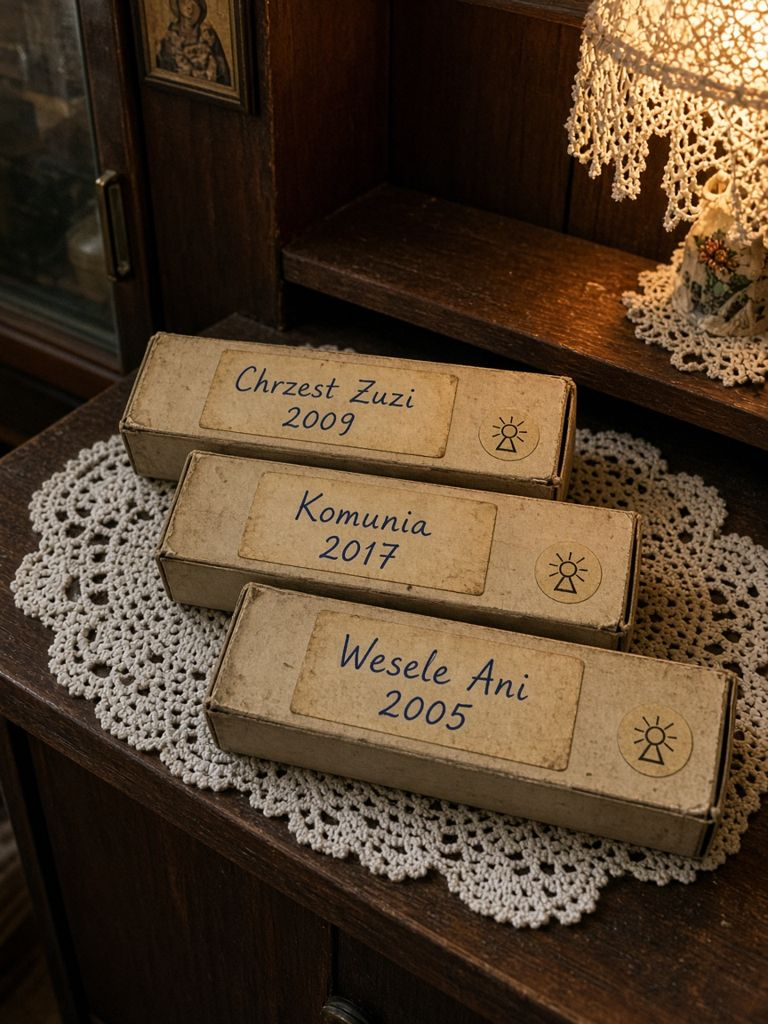
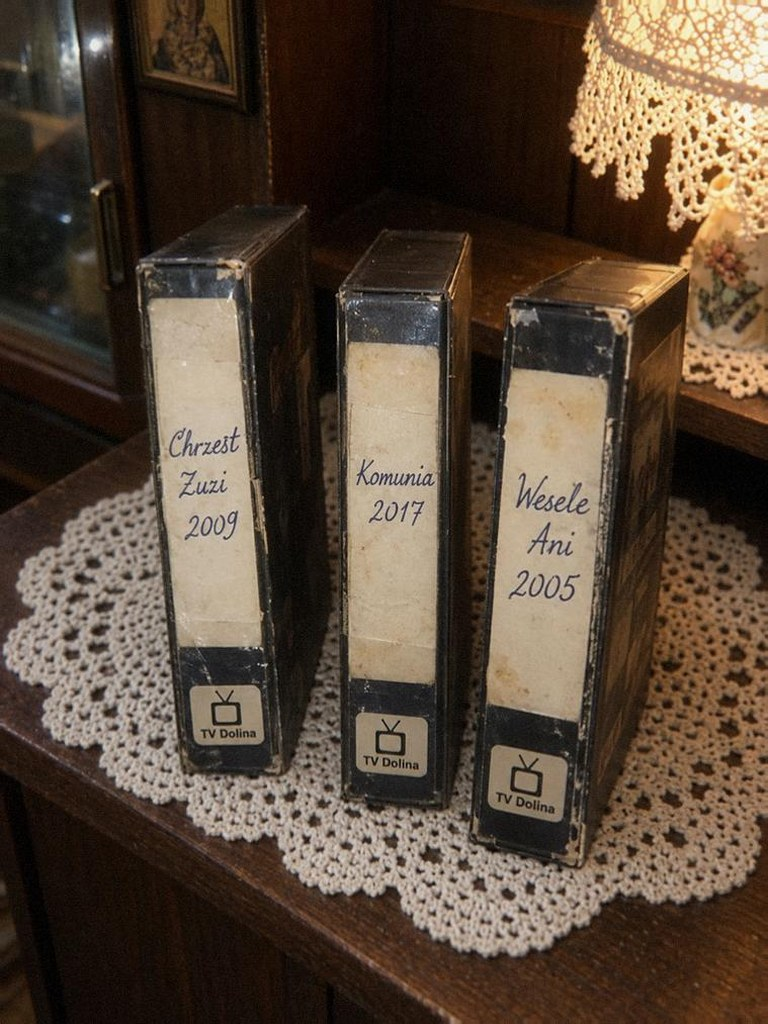
v122: audyt obraz↔tekst we wszystkich sprawach (nocna rampa, kasety TV Dolina, tamagotchi pod murem, mgła na moście, bez gipsu; opisy zgodne ze zdjęciami)

diff --git a/js/data/evidence.js b/js/data/evidence.js
@@ -72,7 +72,7 @@ DATA.evidence = {
   ev_mount: { title: 'Urwany uchwyt fotopułapki 2', cat: 'object', source: 'Zdjęcie Igora', img: 'k_mount', desc: 'Na filarze w hali A zostały tylko opaski zaciskowe i kawałek plastiku. Fotopułapkę ktoś zerwał.' },
   ev_frame08: { title: 'Kadr 8: chłopcy w hucie (1997)', cat: 'photo', source: 'Klisza z szafki 17', img: 'p_08d', desc: 'Kilku nastolatków przy piwie, w świetle flesza. Lato, burza za oknami. Twarze prześwietlone.' },
   ev_frame21: { title: 'Kadr 21: postać w żółtej pelerynie', cat: 'photo', source: 'Klisza z szafki 17', img: 'p_21d', desc: 'Czterech chłopaków przy piecu. W drzwiach za nimi stoi *małe dziecko w żółtej pelerynie z kapturem*. Na szyi ma coś na sznurku.' },
-  ev_frame22: { title: 'Kadr 22: dziura w podłodze', cat: 'photo', source: 'Klisza z szafki 17', img: 'p_22d', desc: 'Rozmazany, niemal czarny kadr. Snop latarki, połamane deski, czarna woda w dole. Ktoś krzyczy — widać otwarte usta.' },
+  ev_frame22: { title: 'Kadr 22: dziura w podłodze', cat: 'photo', source: 'Klisza z szafki 17', img: 'p_22d', desc: 'Rozmazany, niemal czarny kadr. Snop latarki, połamane deski, czarna woda w dole, a w niej coś żółtego. Przy dolnej krawędzi rozmazana ręka — ktoś sięga w dół.' },
   ev_questions: { title: 'Notatka Mai: „Pytania”', cat: 'msg', source: 'Nimbus · notatki (PIN)', desc: 'Lista pytań Mai: kim są chłopcy z kadru 21, kto i po co zamurował odprężarkę, dlaczego szukano tylko w rzece, kto prowadził poszukiwania (*komendant Gajda — ojciec Roberta*). Na końcu: „Nie mówić nikomu. *Zwłaszcza R.G.*”' },
   ev_car_igor: { title: 'Zdjęcie auta przy bramie (Igor)', cat: 'photo', source: 'Zdjęcie Igora', img: 'i_car', desc: 'Rozmazane zdjęcie z daleka: ciemne auto przy bramie huty, światła zgaszone. Z tablicy da się odczytać tylko końcówkę: *…19*.' },
   ev_bartek_conf: { title: 'Bartek: „Pytała o mojego ojca”', cat: 'testimony', source: 'Rozmowa z Bartkiem', desc: '14.10 Maja pytała Bartka, czy jego ojciec Marek był latem 1997 w hucie. Bartek się wściekł. W nocy z 21 na 22.10 sam poszedł do huty sprawdzić, czego szukała.' },

diff --git a/js/story/kopia2.js b/js/story/kopia2.js
@@ -205,7 +205,7 @@ Engine.chapter('k2', { num: 2, kicker: 'Sprawa 3 · Rozdział 2', title: 'Opisy'
     ]),
     scene('xPoczta', [
       pause(2000),
-      pic('ola', 'ola', 'k_poczta', 'Stoję na poczcie w przerwie. Wysyłam bratu paczkę do Holandii. Przede mną dwanaście osób i każda ma pięć paczek.'),
+      pic('ola', 'ola', 'k_poczta', 'Stoję na poczcie w przerwie. Wysyłam bratu paczkę do Holandii. Przede mną dwanaście osób i każda ma pięć paczek.', { wording: 'Stoję na poczcie w przerwie. Wysyłam bratu paczkę do Holandii. Kolejka do samych drzwi i każdy ma po pięć paczek.' }),
       choose('ola', [
         opt('Wytrzymaj. To już ostatnie dni przed świętami.', [O('Półtora dnia. Liczę w godzinach.')]),
         opt('Co jest w paczce?', [O('Kiełbasa, pierniki i opłatek. Brat mówi, że w Holandii nie ma prawdziwego chleba.')])

diff --git a/js/story/kronika.js b/js/story/kronika.js
@@ -421,7 +421,7 @@ Engine.chapter('c2', { num: 2, kicker: 'Sprawa 4 · Rozdział 2', title: 'O.N.',
       I('a w ogóle mam praktykanta z technikum. oskar. czyści stare telefony do sprzedaży szybciej niż ja. trochę za szybko, ale nie narzekam')
     ]),
     scene('xSwietlica', [
-      O('Upiekliśmy pierniki. Połowa ma kształt dinozaura, choć foremki były w gwiazdki.'),
+      O('Upiekliśmy pierniki. Połowa ma kształt dinozaura, choć foremki były w gwiazdki.', { wording: 'Upiekliśmy pierniki. Foremki były w ludziki i gwiazdki, ale połowa dzieci twierdzi, że ich ludzik to dinozaur.' }),
       pic('ola', 'ola', 'c_pierniki', 'Dowód rzeczowy 🦖'),
       O('Jedna dziewczynka zapytała mnie, czy ja też kiedyś byłam niegrzeczna. Prawie się rozpłakałam przy blasze.'),
       choose('ola', [

diff --git a/js/story/kopia.js b/js/story/kopia.js
@@ -252,7 +252,7 @@ Engine.chapter('k1', { num: 1, kicker: 'Sprawa 3 · Rozdział 1', title: 'Chmura
       clock('2026-12-20T06:12'),
       pic('kuba', 'kuba', 'k_rampa', 'koniec nocki. tak wygląda moje „dzień dobry”'),
       choose('kuba', [
-        opt('Ładny wschód. Idź spać.', [K('idę. nie budzić do dziewiątej 💀')]),
+        opt('Ładny wschód. Idź spać.', [K('idę. nie budzić do dziewiątej 💀')], { wording: 'Jeszcze ciemno, a ty już po nocce. Idź spać.' }),
         opt('Rozładowaliście tego tira?', [K('dwa. trzeci jutro. plecy bolą jak u dziadka')])
       ]),
       pause(3000)

diff --git a/sw.js b/sw.js
@@ -1,5 +1,5 @@
 // Service worker: gra działa offline po pierwszym uruchomieniu.
-const VERSION = 'quiet-is-safer-v121';
+const VERSION = 'quiet-is-safer-v122';
 const FILES = [
   './', './index.html', './manifest.webmanifest', './icon.svg', './icon-192.png', './icon-512.png', './apple-touch-icon.png',
   './css/base.css', './css/apps.css', './css/web.css', './css/os.css', './css/messenger.css',

diff --git a/docs/PLAN-WDROZENIA-I-PRZEKAZANIE.md b/docs/PLAN-WDROZENIA-I-PRZEKAZANIE.md
@@ -1009,3 +1009,13 @@ Przejrzane pełne transkrypty wszystkich pięciu spraw (tools/transcript.browser
 - Tropy w rozmowach mówią o rzeczach, których nie było na obrazach: odbicie lampki u góry ekranu (studniówka, boisko — dowód, że ktoś filmuje telewizor telefonem), zielone cyferki 23:47 w rogu przy samochodzie (boisko — zegar magnetowidu z pokoju pana Zenona) i pasek „TV Dolina” (festyn, studniówka).
 - `c_studniowka`, `c_boisko`, `c_festyn` i filmy `v_studniowka`, `v_festyn` (+ plakaty): żółty pasek „TV DOLINA” w lewym dolnym rogu; na studniówce i boisku ciepłe odbicie lampki w prawym górnym rogu (lampka stoi w pokoju po prawej od telewizora), lekkie linie i winieta jak przy filmowaniu ekranu; na boisku zegar 23:47 w prawym dolnym rogu. W filmie studniówki odbicie pojawia się pod koniec (≈ 0:27 klipu).
 - Maja przy porównaniu z kadrem Natana (pasek GS Wideo w rogu): „ta sama jakość z kasety. tylko pasek u dołu inny, żółty” (przez `wording`).
+
+### 2026-10-25 — v122: audyt obraz↔tekst we wszystkich sprawach (reszta zdjęć)
+Przejrzane wszystkie pozostałe zdjęcia używane w grze (119 plików: S1 klisza i fotopułapki, galeria Mai, S2 Głos, S3 Kopia, S4 Kronika, epilog, kadry filmów) obok tekstu, który je zapowiada lub opisuje. Fotopułapki: daty, godziny i °C/°F zgodne z osią czasu (14.10 22:57 Maja, 15.10 1:20 i 2:05 auto). Poprawione rozbieżności:
+- `k_rampa` (Kuba po nocce, 20.12 o 6:12): różowy wschód słońca o 6:12 w grudniu był niemożliwy (wschód ≈ 7:40) — teraz noc, lampy nad rampą, mokry śnieg. Opcja „Ładny wschód. Idź spać.” → „Jeszcze ciemno, a ty już po nocce. Idź spać.” (`wording`).
+- `c_kasety_babci`: zamiast drewnianych klocków trzy prawdziwe kasety VHS w pudełkach z odręcznymi opisami i tą samą naklejką z anteną „TV Dolina” — opcja gracza mówi o „naklejce z anteną”, a na zdjęciu był znaczek słońca.
+- `m_lehr`: „mały, owalny, plastikowy przedmiot” pod murem, który Weronika rozpoznaje jako różowe tamagotchi Tomka, wyglądał jak guzik — teraz pękniete różowe tamagotchi w pyle (to samo miejsce i ten sam hotspot).
+- `e_pudlo` (epilog, Maja z pudłem notatek Rybickiego): ręka w gipsie, o której nikt nigdzie nie mówi → zwykły rękaw swetra.
+- `g_slady` (S5, Kuba: „jestem na moście. mgła jak mleko… świeże ślady”): dodana gęsta mgła i poręcz mostu ginąca we mgle.
+- Tekst zamiast zdjęcia: kadr 22 opisywał „otwarte usta”, których na kadrze nie ma → „w wodzie coś żółtego, przy krawędzi rozmazana ręka”; pierniki Oli — foremki na zdjęciu to ludziki i gwiazdki, więc „połowa dzieci twierdzi, że ich ludzik to dinozaur”; kolejka na poczcie „do samych drzwi” zamiast „dwanaście osób” (na zdjęciu widać kilka).
+- Nowe zdjęcia: Codex image_gen + `tools/realism-post.py`, wymiary bez zmian.
